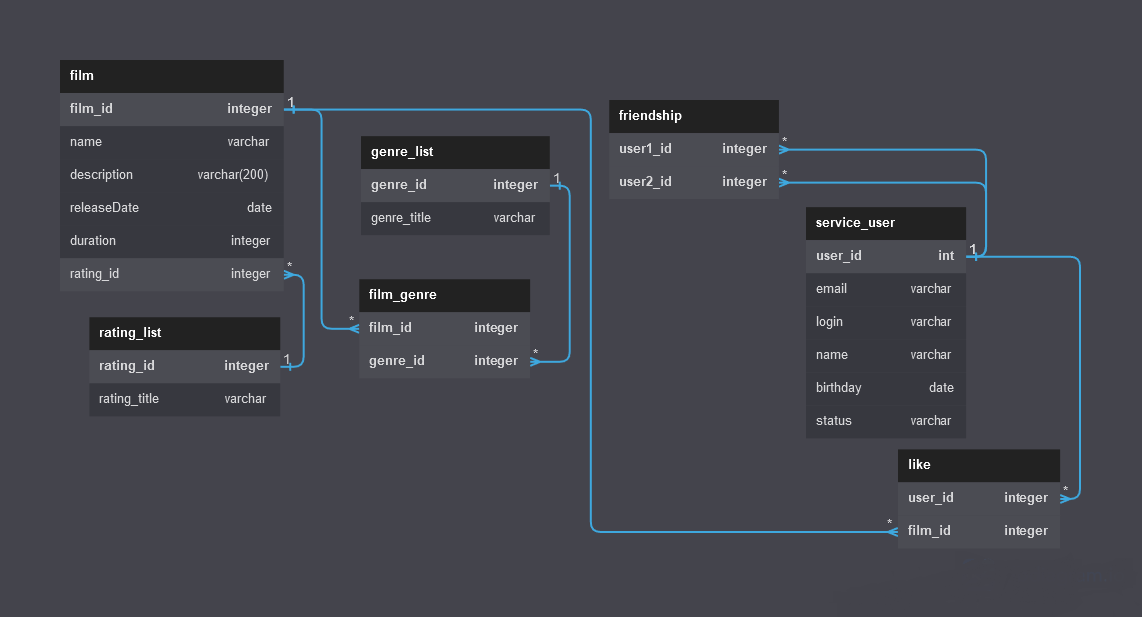
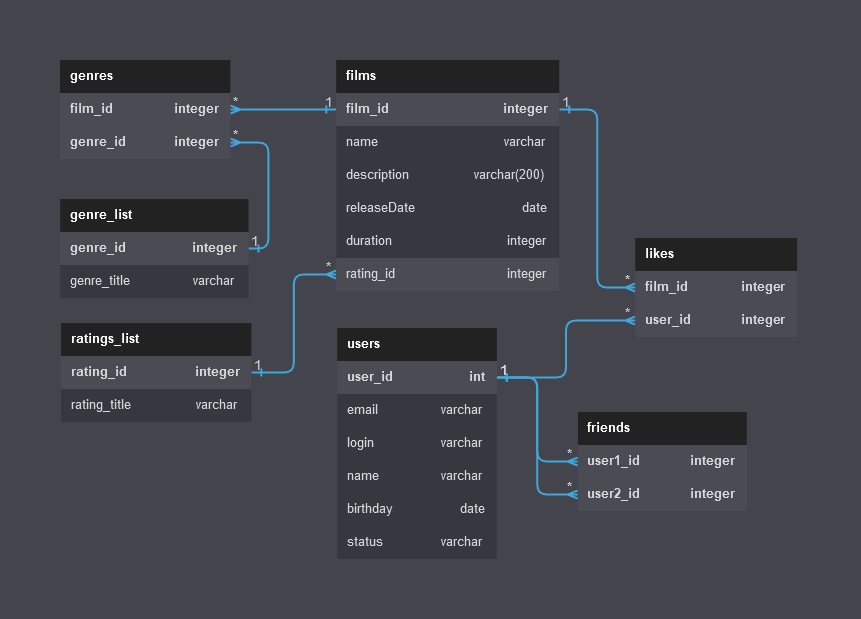
fix: readme impr add: db setup

diff --git a/README.md b/README.md
@@ -7,39 +7,39 @@
 Эта база данных содержит информацию о фильмах, жанрах, рейтингах MPAA, пользователях, дружбе
 между ними и лайках, которые они ставят фильмам.
 
-Схема состоит из семи таблиц: `film`, `rating_list`, `genre_list`, `film_genre`, `service_user`,
-`friendship` и `like`.
+Схема состоит из семи таблиц: `films`, `ratings_list`, `genre_list`, `genres`, `users`,
+`friends` и `likes`.
 
-Таблица `film` содержит информацию о фильмах, включая
-их `id`, `name`, `description`, `releaseDate`, `duration` и рейтинг `mpa_rating`.
+Таблица `films` содержит информацию о фильмах, включая
+их `film_id`, `name`, `description`, `releaseDate`, `duration` и рейтинг `rating_id`.
 
-Таблица `rating_list` содержит список возможных рейтингов MPAA с их `id` и `rating_title`.
+Таблица `ratings_list` содержит список возможных рейтингов с их `rating_id` и `rating_title`.
 
-Таблица `genre_list` содержит список жанров с их `id` и `genre_title`.
+Таблица `genre_list` содержит список жанров с их `genre_id` и `genre_title`.
 
-Таблица `film_genre` является связующей таблицей, которая соединяет фильмы с их жанрами. Она
+Таблица `genres` является связующей таблицей, которая соединяет фильмы с их жанрами. Она
 содержит две колонки: `film_id` и `genre_id`.
 
-Таблица `service_user` содержит информацию о пользователях сервиса, включая
-их `id`, `email`, `login`, `name`, `birthday` и статус.
+Таблица `users` содержит информацию о пользователях сервиса, включая
+их `user_id`, `email`, `login`, `name`, `birthday` и статус.
 
-Таблица `friendship` представляет дружбу между пользователями. Она содержит две колонки: `user1_id`
+Таблица `friends` представляет дружбу между пользователями. Она содержит две колонки: `user1_id`
 и `user2_id`.
 
-Таблица `like` представляет лайки фильмов пользователями. Она содержит две колонки: `user_id`
-и `film_id`.
+Таблица `likes` представляет лайки фильмов пользователями. Она содержит две колонки:
+`film_id` и  `user_id`.
 
 ## Примеры запросов
 
 Добавить новый фильм
 ```sql
-INSERT INTO film (id, name, description, releaseDate, duration, mpa_rating)
+INSERT INTO films (film_id, name, description, releaseDate, duration, rating_id)
 VALUES (1, 'The Shawshank Redemption', 'Two imprisoned men bond over a number of years...',
-        '1994-09-22', 142, 'R');
+        '1994-09-22', 142, 1);
 ```
-Добавить новый рейтинг MPAA
+Добавить новый рейтинг
 ```sql
-INSERT INTO rating_list (rating_title)
+INSERT INTO ratings_list (rating_title)
 VALUES ('R');
 ```
 Добавить новый жанр
@@ -49,35 +49,35 @@ VALUES ('Drama');
 ```
 Связать фильм с жанром
 ```sql
-INSERT INTO film_genre (film_id, genre_id)
+INSERT INTO genres (film_id, genre_id)
 VALUES (1, 1);
 ```
 Добавить нового пользователя
 ```sql
-INSERT INTO service_user (id, email, login, name, birthday)
+INSERT INTO users (user_id, email, login, name, birthday)
 VALUES (1, 'andy@example.com', 'andy', 'Andy Dufresne', '1959-06-06');
 ```
 Добавить запрос на дружбу от одного пользователя к другому
 ```sql
-INSERT INTO friendship (user1_id, user2_id)
+INSERT INTO friends (user1_id, user2_id)
 VALUES (1, 2);
 ```
 Поставить лайк фильму
 ```sql
-INSERT INTO like (user_id, film_id)
+INSERT INTO likes (user_id, film_id)
 VALUES (1, 1);
 ```
 Найти все фильмы с лайками от пользователя
 ```sql
 SELECT f.*
-FROM film f
-JOIN like l ON f.id = l.film_id
+FROM films f
+JOIN likes l ON f.film_id = l.film_id
 WHERE l.user_id = 1;
 ```
 Найти все жанры связанные с фильмом
 ```sql
 SELECT g.*
 FROM genre_list g
-JOIN film_genre fg ON g.id = fg.genre_id
+JOIN genres fg ON g.genre_id = fg.genre_id
 WHERE fg.film_id = 1;
 ```
